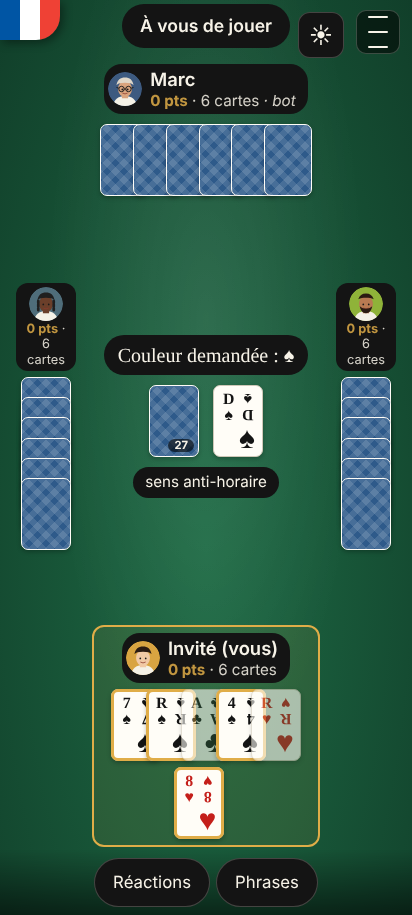
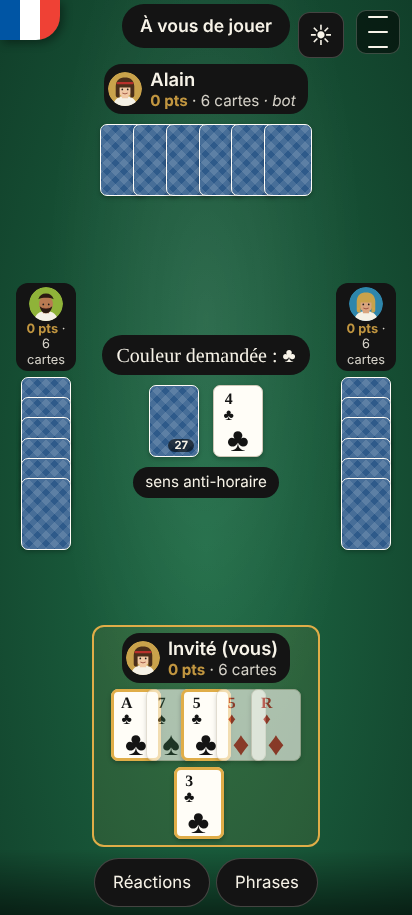
Cartes : les valeurs se lisent toujours à l'endroit (#12)
## Le défaut

Une carte portait deux index, dont celui du bas pivoté à 180°, comme sur
une vraie carte tenue en éventail. Sur un écran, la carte ne tourne
jamais : **un 6 pivoté se lit « 9 »**.

Deux choses aggravaient le cas :

1. **Placement de grille implicite.** `.carte` déclarait
`grid-template-rows` mais aucune colonne ; le `justify-self: end` de
l'index du bas créait une colonne implicite, et l'index remontait à côté
de celui du haut au lieu de descendre dans le coin. D'où les deux
valeurs côte à côte, l'une à l'endroit, l'autre à l'envers.
2. **Chevauchement dans la main.** Les cartes se recouvrent de 30 % par
la droite : l'index du bas dépassait sous la carte voisine, à moitié
coupé et pivoté.

## La correction

Une carte porte un **index unique, en haut à gauche, toujours à
l'endroit**, agrandi (suit central à 2,1 em), et **placé explicitement**
dans la grille (`grid-area`, `grid-template-columns: 1fr`). Le coin
haut-gauche est la seule zone qu'aucune carte voisine ne recouvre dans
une main en éventail : la lecture est donc toujours en faveur du joueur,
quel que soit l'empilement.

Les trois éléments d'origine ne tenaient de toute façon pas dans la
hauteur d'une carte aux tailles de police du site (127 px de contenu
pour 88 px utiles) : c'est ce débordement silencieux qui faisait
remonter l'index du bas.

## Vérification

Rendu réel en 1024×768 (tablette) et 412×860 (téléphone), main complète
[…]

diff --git a/packages/client/public/css/site.css b/packages/client/public/css/site.css
@@ -288,9 +288,20 @@ dialog h2 { margin-top: 0; }
   user-select: none;
   position: relative;
 }
-.carte .coin { display: flex; flex-direction: column; align-items: center; width: 1.1em; }
-.carte .coin.bas { align-self: end; justify-self: end; transform: rotate(180deg); }
-.carte .centre { align-self: center; justify-self: center; font-size: 1.9em; }
+/*
+ * Une carte porte UN index, en haut à gauche, toujours à l'endroit.
+ * Une vraie carte en porte deux, dont un retourné, pour se lire dans une main tenue en
+ * éventail. Sur un écran la carte ne tourne jamais : l'index retourné n'apporte rien, et
+ * un 6 pivoté se lit « 9 ». Il dépassait en plus sous la carte voisine dans la main, et
+ * ne tenait pas dans la hauteur d'une carte aux tailles de police d'ici. Un seul index,
+ * donc, plus grand, placé là où aucune carte ne vient le recouvrir.
+ */
+.carte { grid-template-columns: 1fr; }
+.carte .coin {
+  grid-area: 1 / 1; justify-self: start;
+  display: flex; flex-direction: column; align-items: center; width: 1.1em;
+}
+.carte .centre { grid-area: 2 / 1; align-self: center; justify-self: center; font-size: 2.1em; }
 .carte.rouge { color: var(--carte-rouge); }
 .carte.dos {
   background:

diff --git a/packages/client/src/jeu-huit-americain.ts b/packages/client/src/jeu-huit-americain.ts
@@ -34,11 +34,11 @@ const cardText = (c: Card): string => `${c.value}${c.suit}`;
 
 function cardEl(c: Card, extra = ''): HTMLElement {
   const el = h('div', `carte${isRed(c) ? ' rouge' : ''}${extra ? ' ' + extra : ''}`);
+  // Un seul index, en haut à gauche, toujours à l'endroit et du côté du joueur : dans une
+  // main en éventail, c'est la seule zone jamais recouverte par la carte voisine.
   const coin = h('span', 'coin');
   coin.append(document.createTextNode(c.value), h('span', '', c.suit));
-  const coinBas = coin.cloneNode(true) as HTMLElement;
-  coinBas.classList.add('bas');
-  el.append(coin, h('span', 'centre', c.suit), coinBas);
+  el.append(coin, h('span', 'centre', c.suit));
   el.setAttribute('aria-label', cardText(c));
   return el;
 }

diff --git a/packages/client/public/sw.js b/packages/client/public/sw.js
@@ -16,7 +16,7 @@
  * Une partie se joue sur le serveur : hors ligne, on ne fait pas semblant, on l'explique.
  */
 
-const VERSION = '0.3.0';
+const VERSION = '0.3.1';
 const CACHE = `jdc-${VERSION}`;
 const HORS_LIGNE = '/hors-ligne/';
 

diff --git a/docs/JOURNAL.md b/docs/JOURNAL.md
@@ -6,6 +6,22 @@ visible sur `/api/version` du site. Le journal est repris tel quel dans le wiki 
 
 ---
 
+## 0.3.1 — 16 octobre 2026
+
+**Correction : les valeurs des cartes se lisent toujours à l'endroit.**
+
+Corrigé
+- Une carte portait deux index, dont celui du bas pivoté à 180°, comme sur une vraie
+  carte tenue en éventail. Sur un écran, la carte ne tourne jamais : **un 6 pivoté se
+  lisait « 9 »**. L'index retourné remontait de surcroît à côté de celui du haut, faute
+  de placement de grille explicite, et dépassait sous la carte voisine dans la main —
+  d'où un mélange d'indices à l'endroit et à l'envers, signalé depuis une tablette.
+- Une carte porte désormais **un index unique, en haut à gauche, toujours à l'endroit**,
+  agrandi, placé explicitement : c'est la seule zone qu'aucune carte voisine ne recouvre
+  dans une main en éventail. Captures d'écran du manifeste refaites en conséquence.
+
+---
+
 ## 0.3.0 — 16 octobre 2026
 
 **Application installable, sur ordinateur comme sur téléphone.**
